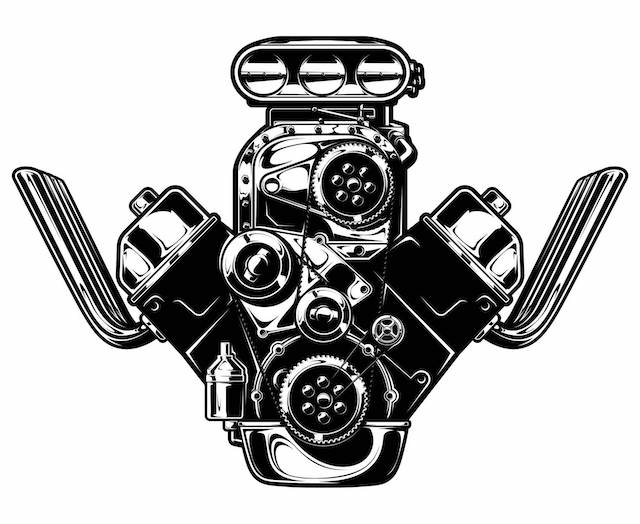
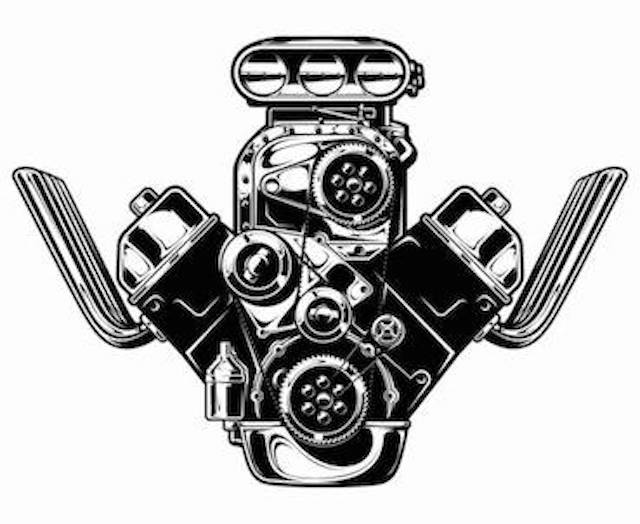
fixed image opacity

Changed region(s): [[0.0, 0.0611, 1.0, 0.9466]]

diff --git a/src/index.css b/src/index.css
@@ -1,10 +1,9 @@
 body {
-  margin: 0;
   font-family: Verdana;
-  background-image: url('./images/V8 big block.jpeg');
+  background-image: linear-gradient(rgba(255,255,255,.9), rgba(255,255,255,.9)),url('./images/V8 big block.jpeg');
   background-repeat: no-repeat;
   background-attachment: fixed;
-  background-position: right;
+  background-position: center;
 }
 
 code {
